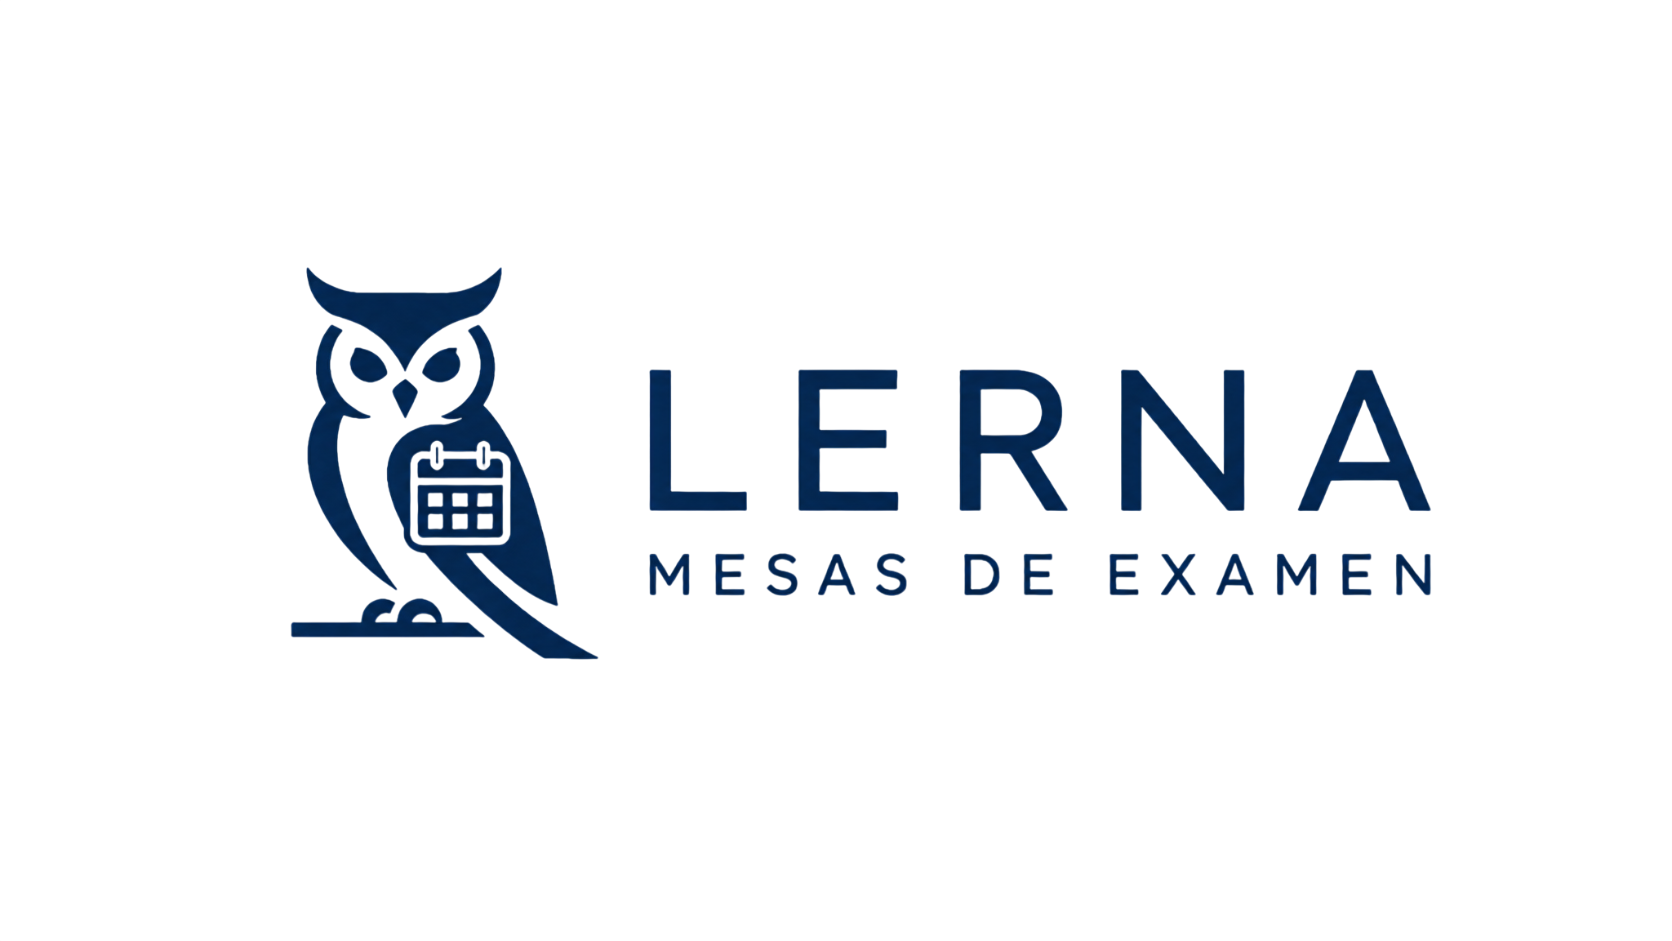
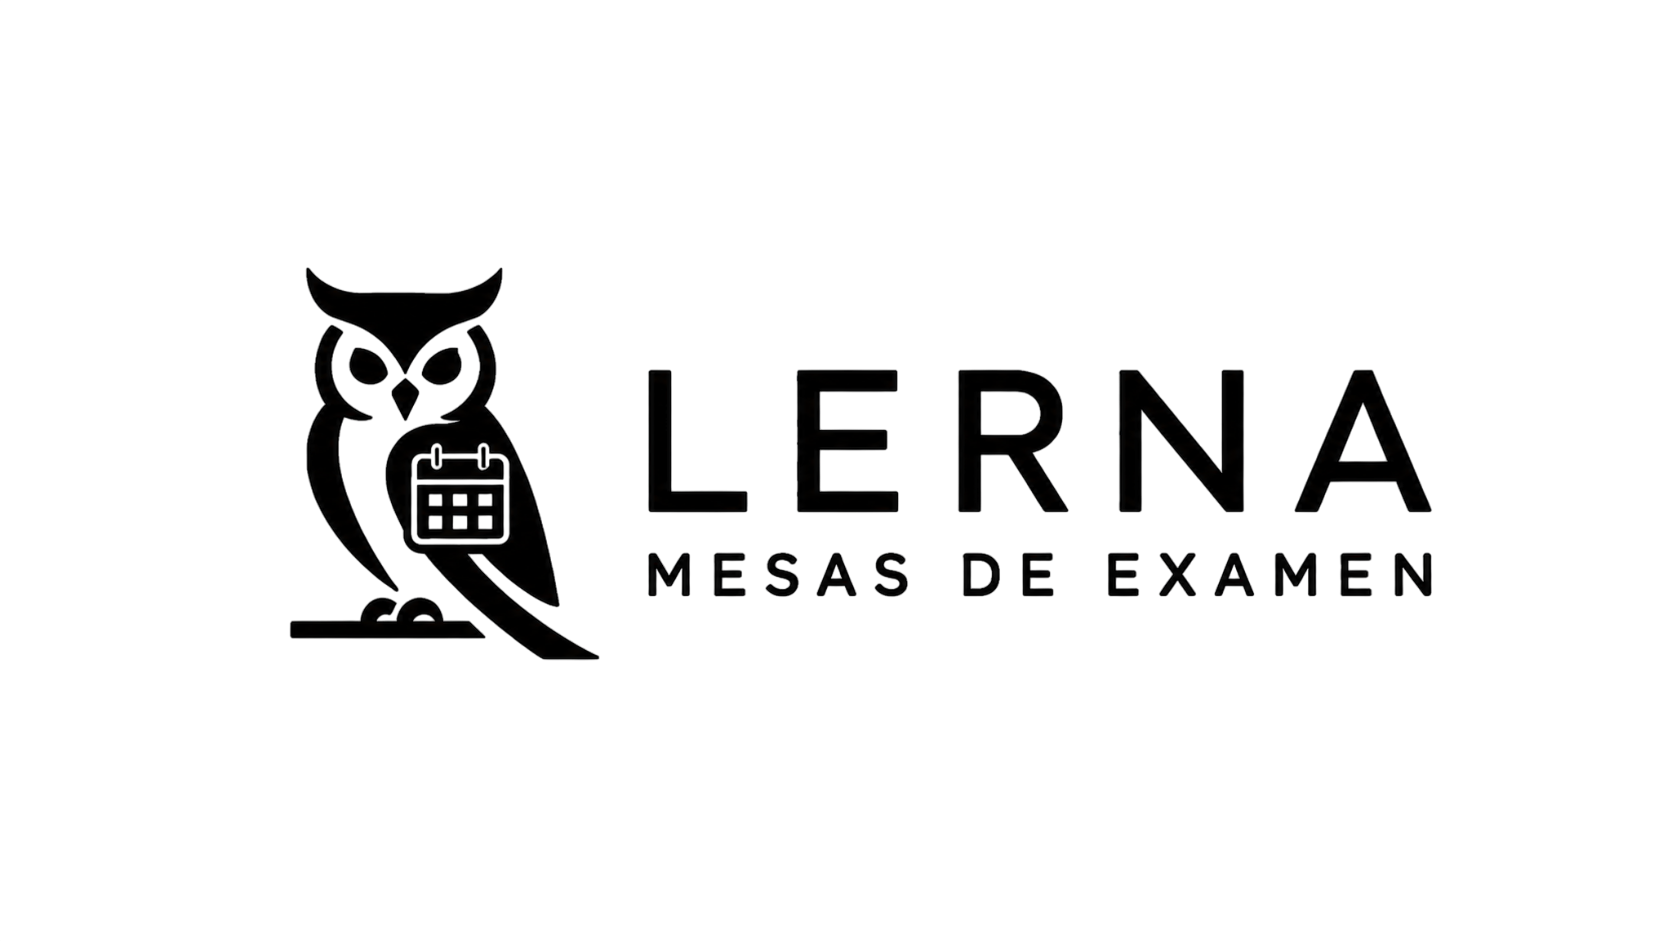
cm

diff --git a/frontend/src/components/Global/Botones/BotonExportarHistorialGlobal.jsx b/frontend/src/components/Global/Botones/BotonExportarHistorialGlobal.jsx
@@ -25,7 +25,7 @@ const BotonExportarHistorialGlobal = ({
   return (
     <button
       type={type}
-      className={`global-exportHistorial-trigger ${className}`.trim()}
+      className={`global-exportHistorial-trigger mov-btn mov-btn--secondary mesas-actionBtn mesas-exportBtn ${className}`.trim()}
       onClick={onClick}
       disabled={disabled || loading}
       title={title}